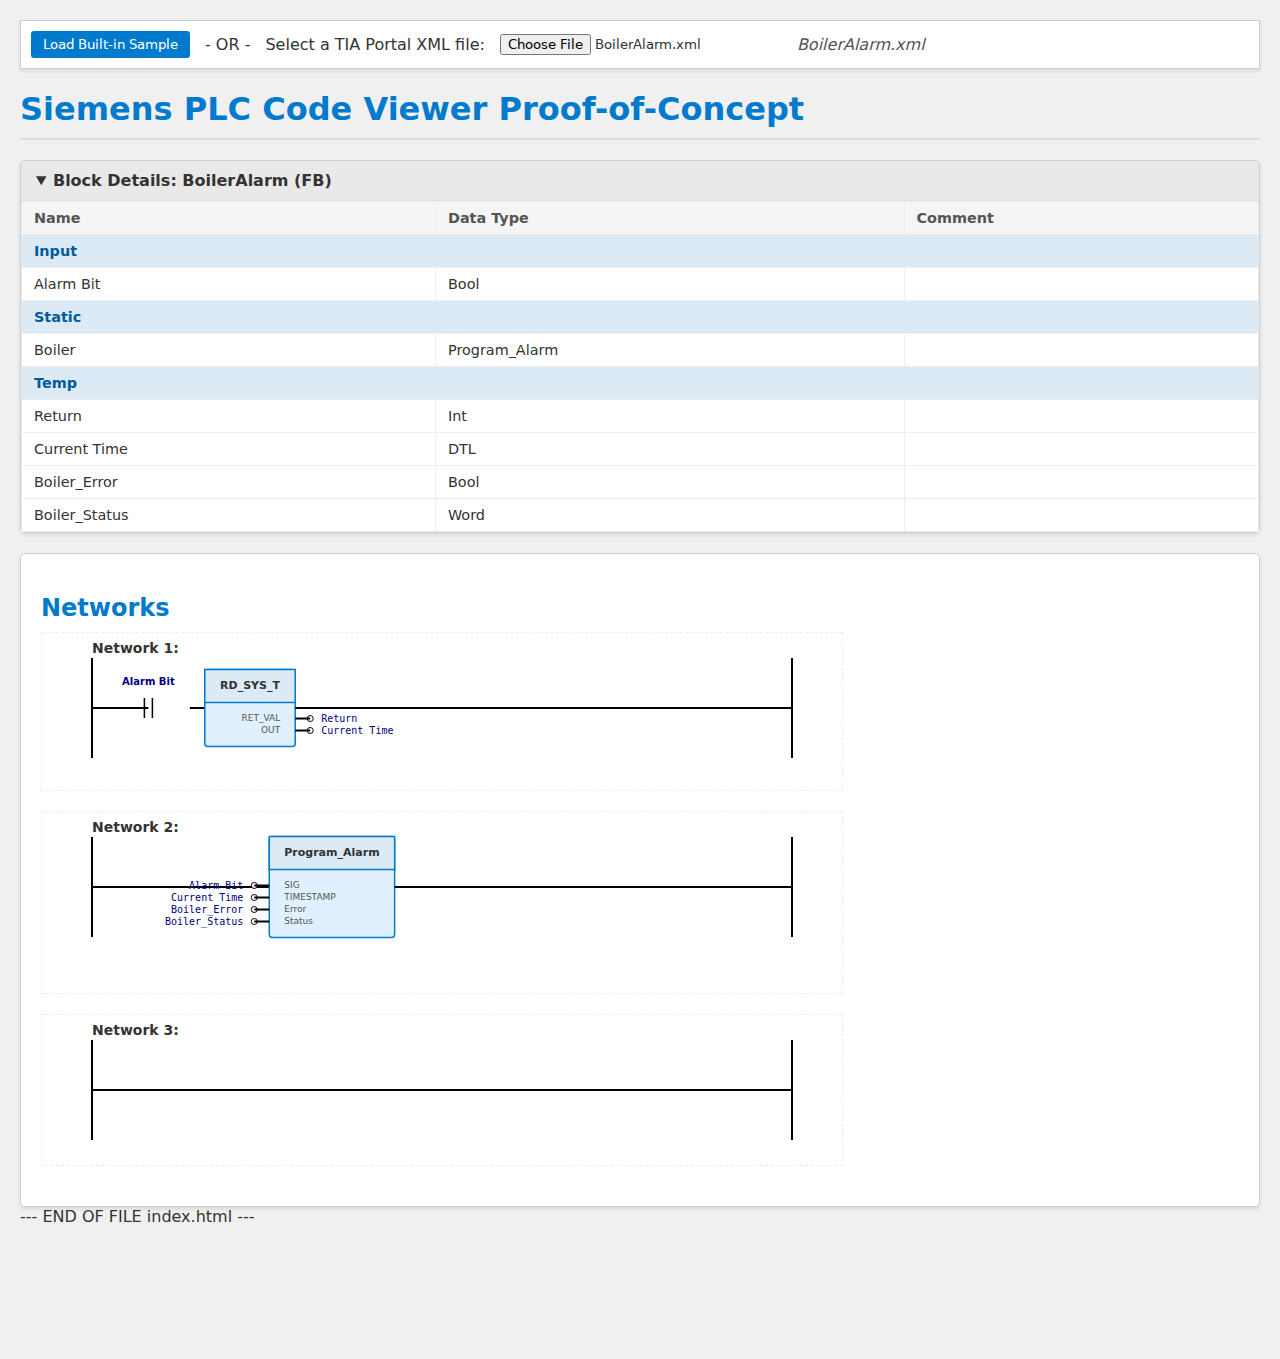
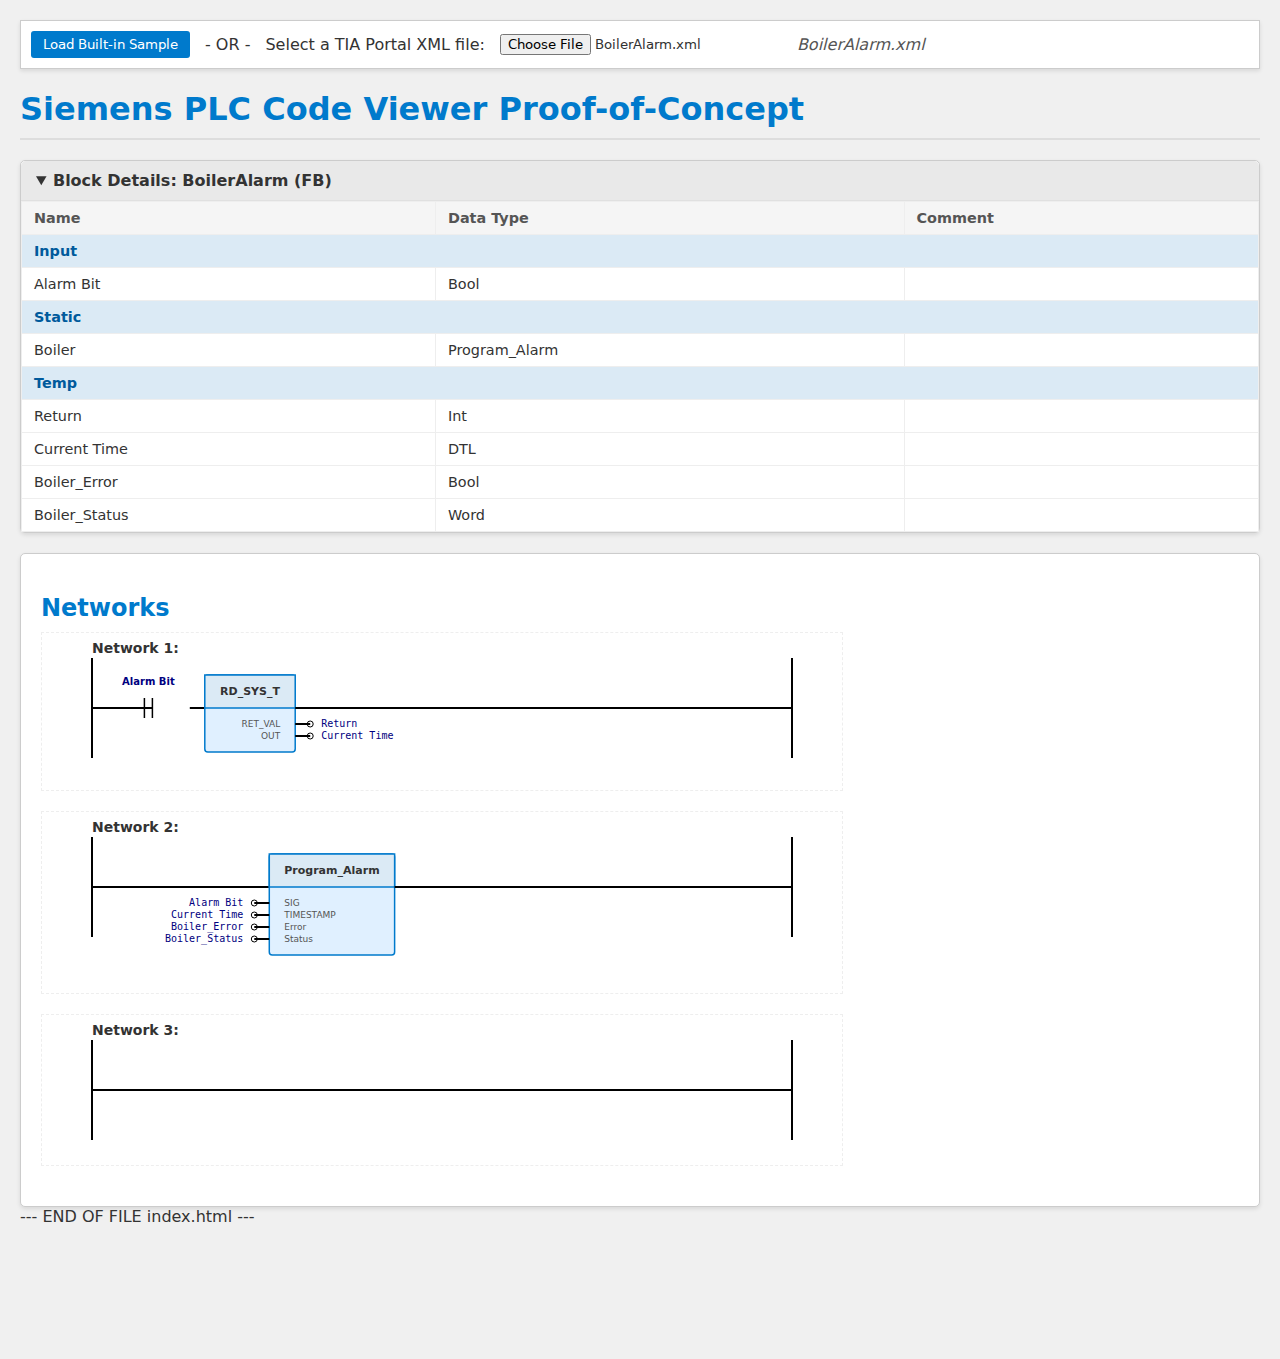
Fix final rendering details for PLC viewer
This commit implements the final, specific rendering adjustments based on user feedback to achieve the desired visual representation.

The main changes include:
- Aligned instruction block rungs to the bottom of the title header for precise vertical positioning.
- Completed the contact symbol by drawing the horizontal rung segment through it, ensuring it visually connects on both sides.
- Updated the `output.png` verification image to reflect these final changes.

This commit finalizes the visual rendering of the PLC ladder logic.

Changed region(s): [[0.125, 0.5872, 0.3125, 0.7108], [0.1562, 0.4945, 0.3125, 0.5563]]

diff --git a/data/PLC_1/Program_blocks/index.html b/data/PLC_1/Program_blocks/index.html
@@ -1084,22 +1084,30 @@
 
             const verticalBarX = horizontalOffset + symbolVisualWidth / 2;
             const barSpacing = 8;
+            const barLeftX = verticalBarX - barSpacing / 2;
+            const barRightX = verticalBarX + barSpacing / 2;
 
+            // Draw the two vertical bars
             const bar1 = document.createElementNS(SVG_NS, "line");
-            bar1.setAttribute("x1", verticalBarX - barSpacing / 2);
-            bar1.setAttribute("y1", rungLineY - 10);
-            bar1.setAttribute("x2", verticalBarX - barSpacing / 2);
-            bar1.setAttribute("y2", rungLineY + 10);
+            bar1.setAttribute("x1", barLeftX); bar1.setAttribute("y1", rungLineY - 10);
+            bar1.setAttribute("x2", barLeftX); bar1.setAttribute("y2", rungLineY + 10);
             bar1.classList.add("contact-symbol");
             group.appendChild(bar1);
 
             const bar2 = document.createElementNS(SVG_NS, "line");
-            bar2.setAttribute("x1", verticalBarX + barSpacing / 2);
-            bar2.setAttribute("y1", rungLineY - 10);
-            bar2.setAttribute("x2", verticalBarX + barSpacing / 2);
-            bar2.setAttribute("y2", rungLineY + 10);
+            bar2.setAttribute("x1", barRightX); bar2.setAttribute("y1", rungLineY - 10);
+            bar2.setAttribute("x2", barRightX); bar2.setAttribute("y2", rungLineY + 10);
             bar2.classList.add("contact-symbol");
             group.appendChild(bar2);
+
+            // Draw the horizontal rung segment connecting the two bars
+            const rungSegment = document.createElementNS(SVG_NS, "line");
+            rungSegment.setAttribute("x1", barLeftX);
+            rungSegment.setAttribute("y1", rungLineY);
+            rungSegment.setAttribute("x2", barRightX);
+            rungSegment.setAttribute("y2", rungLineY);
+            rungSegment.classList.add("ladder-wire");
+            group.appendChild(rungSegment);
         }
 
         function renderCoilContent(group, part) {
@@ -1150,7 +1158,6 @@
             let maxRightLabelsWidth = 0;
             let totalInputPinsHeight = 0;
             let totalOutputPinsHeight = 0;
-            let rungConnectionY = 0; // Will store the calculated Y position of the EN pin for alignment
 
             const typeTextWidth = estimateTextDimensions(part.partType, "part-type").width;
 
@@ -1169,30 +1176,17 @@
                 }
             });
 
-            // Second pass: Calculate label widths and find EN pin Y coordinate
-            let currentYInput = headerHeight + IN_BLOCK_PAD_V;
+            // Second pass: Calculate label widths
             part.pins.forEach(pin => {
-                 const isOutput = /^(Q|ET|OUT|RET_VAL|ENO|ERROR|STATUS|LONG_OUT_PIN)$/.test(pin.name);
-                if (isOutput) return; // Only process inputs in this loop
-
-                // The EN/REQ pin defines the main rung connection point for the block
-                if (pin.name === 'EN' || pin.name === 'REQ') {
-                    rungConnectionY = currentYInput + (pin.operandHeight / 2);
-                }
-                const pinNameWidth = estimateTextDimensions(pin.name, "pin-name").width;
-                const currentLabelSetWidth = pinNameWidth + PIN_ELEMENT_GAP_H + PIN_TERMINAL_WIRE_LENGTH + (PIN_TERMINAL_SIZE * 2) + PIN_ELEMENT_GAP_H + pin.operandWidth;
-                maxLeftLabelsWidth = Math.max(maxLeftLabelsWidth, currentLabelSetWidth);
-
-                currentYInput += pin.operandHeight;
-            });
-             part.pins.forEach(pin => {
                 const isOutput = /^(Q|ET|OUT|RET_VAL|ENO|ERROR|STATUS|LONG_OUT_PIN)$/.test(pin.name);
-                if (!isOutput) return; // Only process outputs
                 const pinNameWidth = estimateTextDimensions(pin.name, "pin-name").width;
                 const currentLabelSetWidth = pinNameWidth + PIN_ELEMENT_GAP_H + PIN_TERMINAL_WIRE_LENGTH + (PIN_TERMINAL_SIZE * 2) + PIN_ELEMENT_GAP_H + pin.operandWidth;
-                maxRightLabelsWidth = Math.max(maxRightLabelsWidth, currentLabelSetWidth);
+                if (isOutput) {
+                    maxRightLabelsWidth = Math.max(maxRightLabelsWidth, currentLabelSetWidth);
+                } else {
+                    maxLeftLabelsWidth = Math.max(maxLeftLabelsWidth, currentLabelSetWidth);
+                }
             });
-
 
             part.blockInternalRectWidth = Math.max(MIN_BLOCK_RECT_WIDTH, typeTextWidth + IN_BLOCK_PAD_H * 2);
             part.calculatedWidth = maxLeftLabelsWidth + part.blockInternalRectWidth + maxRightLabelsWidth;
@@ -1201,8 +1195,9 @@
             part.maxLeftLabelsWidth = maxLeftLabelsWidth;
             part.maxRightLabelsWidth = maxRightLabelsWidth;
             part.instructionTypeHeight = INSTRUCTION_TYPE_HEIGHT;
-            // Store the universal connection point. Fallback to geometric center if no EN pin.
-            part.rungConnectionY = rungConnectionY || (part.calculatedHeight / 2);
+
+            // Per user feedback, the rung must align with the bottom of the header.
+            part.rungConnectionY = headerHeight;
         }
 
 
